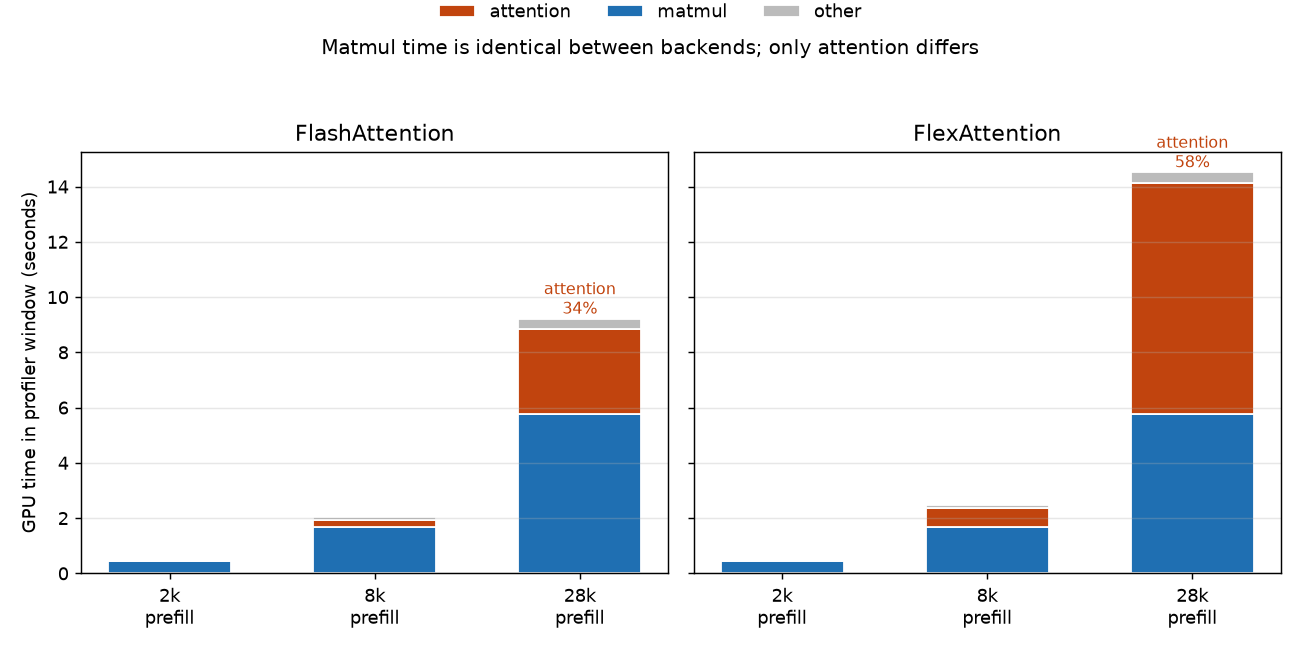
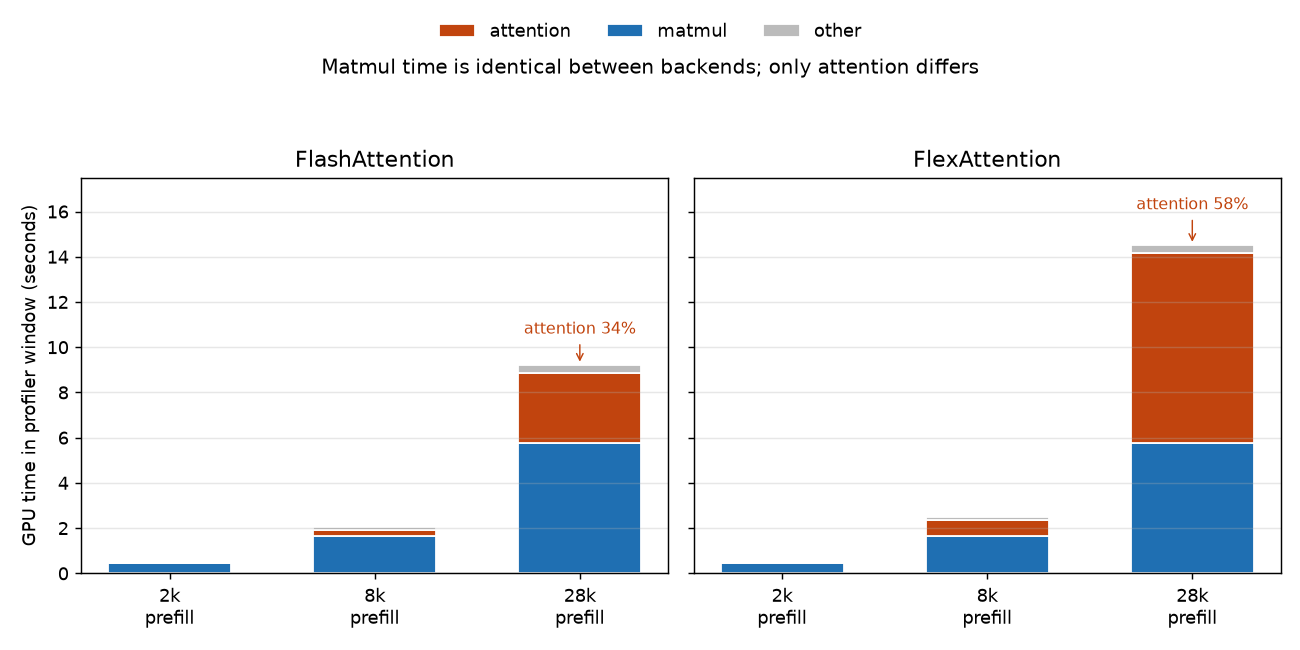
Part 8: fix figure label overlaps (headroom + repositioned annotations)

diff --git a/experiments/08-flash-attention/render_figs.py b/experiments/08-flash-attention/render_figs.py
@@ -20,12 +20,13 @@ ax.plot(N, flash, "o-", color="#1f6fb2", lw=2, ms=6, label="FlashAttention")
 ax.set_xlabel("Prompt length (tokens)")
 ax.set_ylabel("Time to first token (seconds)")
 ax.set_title("Prefill time diverges only once the prompt is long")
+ax.set_ylim(-1.0, 18.5)
 ax.grid(True, alpha=0.3)
 ax.legend(loc="upper left", frameon=False)
-ax.annotate("3 ms apart\nat 256 tokens", xy=(256, 0.12), xytext=(3000, 1.6),
-            fontsize=9, color="#555",
+ax.annotate("3 ms apart\nat 256 tokens", xy=(500, 0.15), xytext=(4200, -0.4),
+            fontsize=9, color="#555", va="center",
             arrowprops=dict(arrowstyle="->", color="#999"))
-ax.annotate("6.2 s apart\nat 30,720 tokens", xy=(30720, 16.4), xytext=(15000, 12.5),
+ax.annotate("6.2 s apart\nat 30,720 tokens", xy=(30720, 13.3), xytext=(15500, 10.0),
             fontsize=9, color="#555",
             arrowprops=dict(arrowstyle="->", color="#999"))
 fig.tight_layout()
@@ -62,17 +63,22 @@ for ax, backend in zip(axes, ["FlashAttention", "FlexAttention"]):
     ax.set_xticks(list(x))
     ax.set_xticklabels([f"{l}\nprefill" for l in lengths])
     ax.set_title(backend)
+    ax.set_ylim(0, 17.5)
     ax.grid(True, axis="y", alpha=0.3)
 axes[0].set_ylabel("GPU time in profiler window (seconds)")
-# annotate the attention share at 28k on each panel
-axes[0].text(2, 9.4, "attention\n34%", ha="center", fontsize=9, color="#c1440e")
-axes[1].text(2, 14.7, "attention\n58%", ha="center", fontsize=9, color="#c1440e")
+# label the attention share just above each 28k bar, inside the headroom
+axes[0].annotate("attention 34%", xy=(2, 9.2), xytext=(2, 10.6), ha="center",
+                 fontsize=9, color="#c1440e",
+                 arrowprops=dict(arrowstyle="->", color="#c1440e", lw=0.8))
+axes[1].annotate("attention 58%", xy=(2, 14.5), xytext=(2, 16.1), ha="center",
+                 fontsize=9, color="#c1440e",
+                 arrowprops=dict(arrowstyle="->", color="#c1440e", lw=0.8))
 handles, labels = axes[0].get_legend_handles_labels()
 order = [labels.index("attention"), labels.index("matmul"), labels.index("other")]
 fig.legend([handles[i] for i in order], [labels[i] for i in order],
-           loc="upper center", ncol=3, frameon=False, bbox_to_anchor=(0.5, 1.02))
+           loc="upper center", ncol=3, frameon=False, bbox_to_anchor=(0.5, 0.99))
 fig.suptitle("Matmul time is identical between backends; only attention differs",
-             y=0.94, fontsize=11)
-fig.tight_layout(rect=[0, 0, 1, 0.9])
+             y=0.91, fontsize=11)
+fig.tight_layout(rect=[0, 0, 1, 0.86])
 fig.savefig(f"{OUT}/fig8b-kernel-family-split.png", dpi=130)
 print("wrote fig8b")
